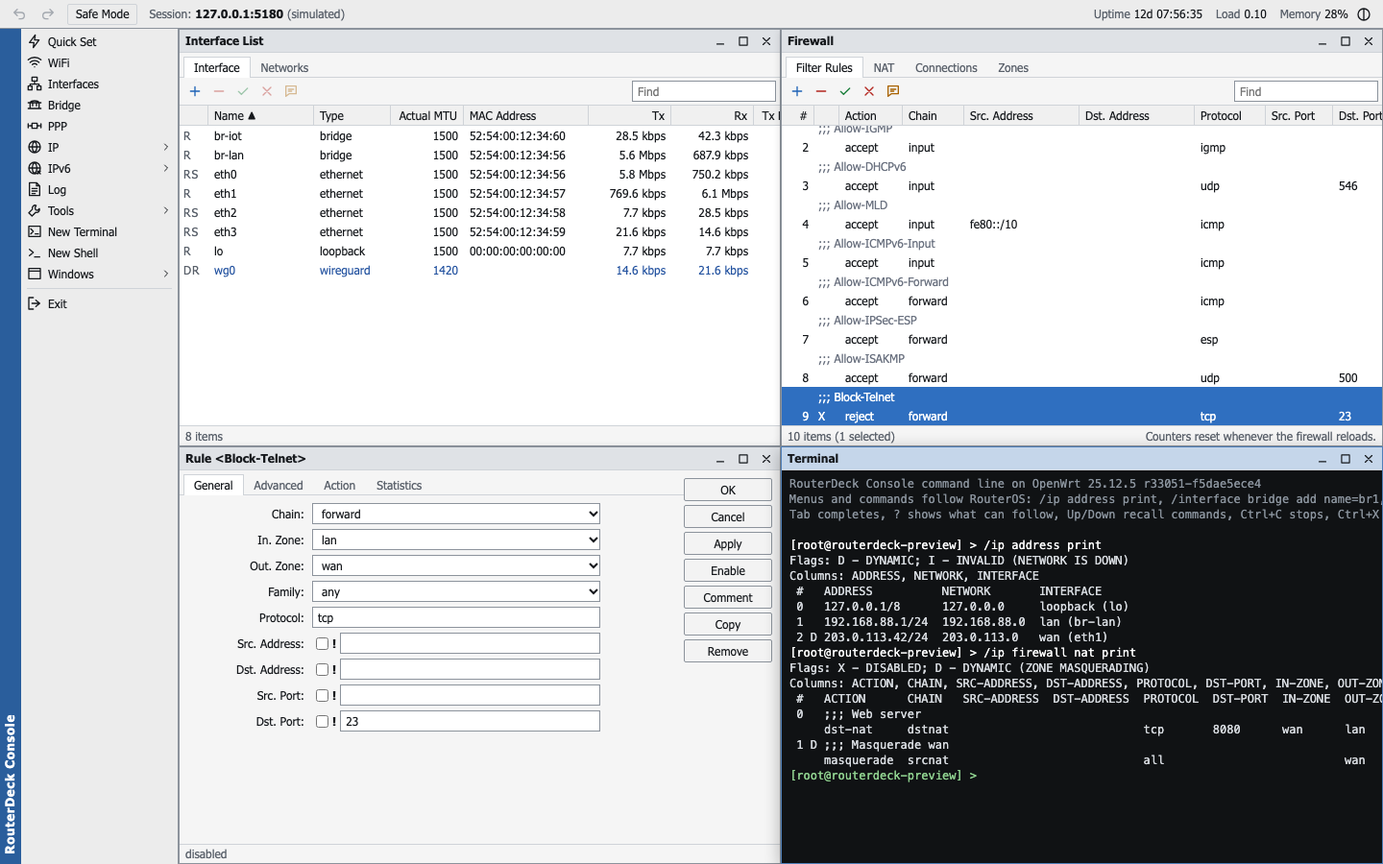
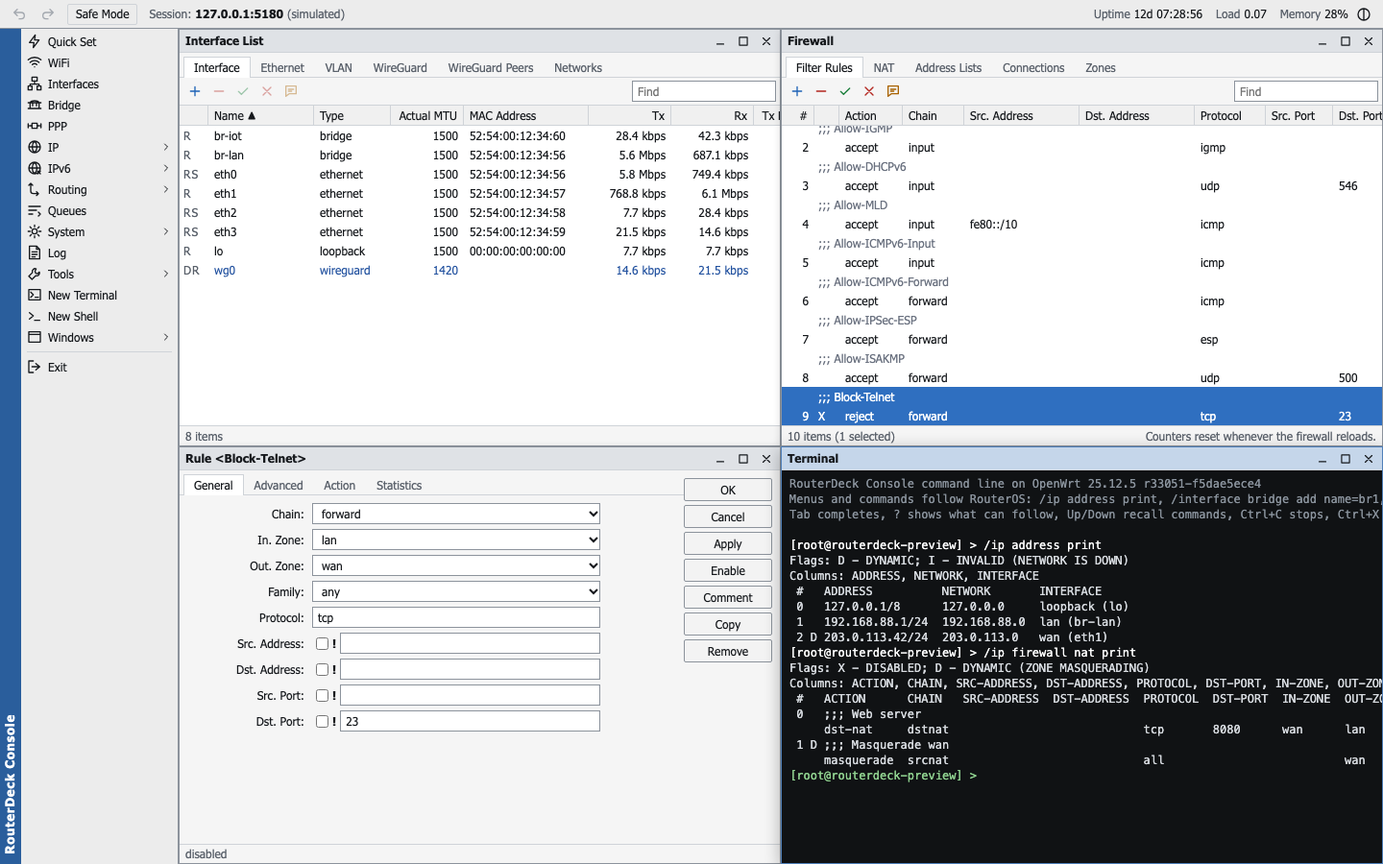
Validate the second round on OpenWrt 25.12 and 24.10 and document it
Fixes found by running the new windows against both releases:
- Services that procd has not registered ignore configuration changes:
  opkg enables a package's service without starting it, and ddns-scripts on
  24.10 is a plain init script. The plugin now restarts such a service after
  a change (plain scripts get reload and start, which also ends the updater
  of a removed DDNS section).
- The DHCP Networks tab and the DHCP pool read the LAN as /32 where 24.10
  keeps the legacy ipaddr + netmask form; both use the netmask now.
- The WireGuard tab says when netifd has not loaded WireGuard yet, as after
  installing wireguard-tools without restarting the network.
- VM tests tolerate a missing ttyd configuration, match the 24.10 ddns
  updater's arguments and skip WireGuard where netifd lacks it.

Docs: the console guide covers the System menu, the new tabs and lists,
UPnP, Dynamic DNS, Queues and the new tools with their CLI menus, the
Undo merge, set and WireGuard handling and the Netwatch service; READMEs,
architecture, changelog and the Russian plan are updated; screenshots
show the new menu.

Validated with SDK-built packages: package lifecycle on both releases;
console VM tests 48/48 on 25.12.5 and 44 passed, 3 skipped (no ttyd or
hwsim radios) on 24.10.8, where only the older LuCI theme window test fails
because 24.10 has no status/routesj page.

diff --git a/console/src/model/dhcp.js b/console/src/model/dhcp.js
@@ -2,7 +2,7 @@
 // IP > DHCP Server: per-network `dhcp` sections and leases. Static leases are
 // `host` sections; an active lease without one is dynamic and can be made
 // static. A lease shows an address was handed out, not that a client is online.
-import { sections, truthy, list, invalid, networkOptions, compact } from './common.js';
+import { sections, truthy, list, invalid, networkOptions, compact, firstCidr } from './common.js';
 import { parseCidr, isIPv4, isMac, addressKey, formatIPv4, parseIPv4, parseIPv6 } from '../lib/ip.js';
 import { uptime } from '../lib/format.js';
 
@@ -11,7 +11,7 @@ const HOSTNAME = /^[A-Za-z0-9]([A-Za-z0-9-]{0,62})$/;
 
 function pool(data, section) {
  const network = sections(data['uci:network'], 'interface').find(item => item['.name'] === section.interface);
- const cidr = parseCidr(list(network?.ipaddr)[0] ?? '');
+ const cidr = parseCidr(firstCidr(network));
  if (!cidr) return '';
  const base = parseIPv4(cidr.network), start = Number(section.start ?? 100), limit = Number(section.limit ?? 150);
  return `${formatIPv4(base + start)}-${formatIPv4(base + start + limit - 1)}`;
@@ -270,7 +270,7 @@ const odhcpdServes = data => truthy(sections(data['uci:dhcp'], 'odhcpd')[0]?.mai
 
 function routerAddress(data, section) {
  const network = sections(data['uci:network'], 'interface').find(item => item['.name'] === section.interface);
- return parseCidr(list(network?.ipaddr)[0] ?? '');
+ return parseCidr(firstCidr(network));
 }
 
 export const dhcpNetworks = {

diff --git a/console/src/model/ports.js b/console/src/model/ports.js
@@ -103,7 +103,7 @@ const wgInterfaces = data => sections(data['uci:network'], 'interface').filter(s
 export const wireguard = {
  id: 'wireguard',
  noun: 'WireGuard Interface',
- sources: ['uci:network', 'uci:firewall', 'ifaces', 'wireguard'],
+ sources: ['uci:network', 'uci:firewall', 'ifaces', 'wireguard', 'protos'],
  columns: [
   { id: 'flags', label: '', width: 30 },
   { id: 'name', label: 'Name', width: 100 },
@@ -115,7 +115,8 @@ export const wireguard = {
  ],
  flagLegend: { R: 'running', X: 'disabled' },
  defaultSort: 'name',
- status: data => data.wireguard?.available === false ? 'WireGuard needs the wireguard-tools and kmod-wireguard packages' : '',
+ status: data => data.wireguard?.available === false ? 'WireGuard needs the wireguard-tools and kmod-wireguard packages'
+  : data.protos && !Object.hasOwn(data.protos, 'wireguard') ? 'netifd has not loaded WireGuard yet: restart the network or the router after installing wireguard-tools' : '',
  rows(data) {
   return wgInterfaces(data).map(section => {
    const name = section['.name'], live = data.wireguard?.interfaces?.[name];

diff --git a/console/src/model/common.js b/console/src/model/common.js
@@ -83,3 +83,14 @@ export function reorderOps(config, values, orderedNames, types) {
 }
 
 export const quoted = value => value ? ` ${value}` : '';
+
+// The first IPv4 address of a network section as CIDR text, also for the
+// legacy ipaddr + netmask form OpenWrt 24.10 still writes.
+export function firstCidr(section) {
+ const first = list(section?.ipaddr)[0];
+ if (!first || first.includes('/')) return first ?? '';
+ const bits = String(section.netmask ?? '').split('.').map(Number);
+ if (bits.length !== 4 || bits.some(part => !(part >= 0 && part <= 255))) return first;
+ const prefix = bits.reduce((count, part) => count + part.toString(2).replace(/0/g, '').length, 0);
+ return `${first}/${prefix}`;
+}

diff --git a/docs/console.md b/docs/console.md
@@ -53,7 +53,15 @@ Dark theme: [screenshot](screenshots/console-dark.png). Both show the simulated 
   min/avg/max; *Traceroute* probes every hop once per round, like mtr, and keeps
   loss, last, average, best, worst and deviation per hop; *Torch* shows Tx/Rx
   rates per connection on a chosen device, filtered by protocol, addresses and
-  port and grouped by the fields you collect.
+  port and grouped by the fields you collect. *Bandwidth Test* runs iperf3
+  against another iperf3 or waits as a one-off server; *IP Scan* pings a
+  network and lists who answers with MAC and host name; *Netwatch* pings hosts
+  from the router itself and runs commands when they go up or down; *Wake on
+  LAN* sends a magic packet; *Graphs* and the *Traffic* tab of an interface
+  draw live Tx/Rx.
+- **System.** Identity, Clock (time zone, set from this computer), NTP,
+  Logging, Password, Packages, Scheduler (cron), Startup (procd services),
+  Resources, Backup download and Reboot.
 - **Terminal.** *New Terminal* (Alt+T) is a command line in the RouterOS style
   (see [Command line](#command-line)). *New Shell* embeds the router's shell
   through [ttyd](https://github.com/tsl0922/ttyd), which asks for its own login.
@@ -85,6 +93,21 @@ Dark theme: [screenshot](screenshots/console-dark.png). Both show the simulated 
 | WiFi ▸ Registration | iwinfo association lists | — | Connected clients with signal, rates, uptime and DHCP host names |
 | PPP | `interface` sections with a PPP protocol | R connected, X disabled | PPPoE and other PPP clients: user, password, service, AC, peer DNS, default route, keepalive, MTU, zone |
 | Quick Set | `wan` and `lan` networks, their DHCP server and zone, LAN access points, `system` | — | One change for everything edited; see above |
+| Interfaces ▸ Ethernet | Ethernet devices, link state, `device` sections | R link up, S bridge port | Speed, duplex and autonegotiation in the port's `device` section, where the driver allows them |
+| Interfaces ▸ VLAN | `device` sections of type 8021q | R, I | The VLAN form of the device list |
+| Interfaces ▸ WireGuard, WireGuard Peers | `interface` sections with proto wireguard, `wireguard_<interface>` peers, `wg show` | R running, X disabled; C handshake within 3 min | A new interface gets a private key made on the router; peers changes restart the interface |
+| IP ▸ ARP, IPv6 ▸ Neighbors | the kernel's neighbour table (`ip neigh`) | D, C complete, I failed, S static lease, R router | *Make Static* reserves a DHCP lease |
+| IP ▸ Firewall ▸ Address Lists | fw4 `ipset` sections and their entries | X list disabled, E empty | Rules use a list on their Advanced tab; removed entries leave nftables at once |
+| IP ▸ DHCP Server ▸ Networks, Options | `dhcp_option` of each DHCP server | X, F forced | dnsmasq options: gateway (3), DNS (6), domain (15), NTP (42) and any other code |
+| IP ▸ Services | uhttpd, dropbear and ttyd | X disabled | Ports and where SSH and ttyd listen; a new web port moves this console |
+| IP ▸ UPnP | `upnpd` (miniupnpd) and its lease file | — | Settings, live mappings, ordered permission rules |
+| IP ▸ Dynamic DNS | `ddns` service sections (ddns-scripts) and its run directory | X, R updater running, 6 IPv6 | Provider list from ddns-scripts or a custom update URL |
+| Routing ▸ Rules | `rule` and `rule6` sections, `ip rule` | X, I invert, D kernel rule, A active | Policy routing to other tables |
+| Queues ▸ SQM | `queue` sections (sqm-scripts), `tc` | X, R shaping | cake or fq_codel per device with link-layer settings |
+| System ▸ … | `/etc/config/system`, `/etc/crontabs/root`, `rc list`, apk/opkg databases | — | Scheduler jobs: "# name" lines name them, commented-out jobs are disabled |
+| Tools ▸ Bandwidth Test, IP Scan | `bandwidth` and `scan` jobs of the same runner | — | Need iperf3 for the bandwidth test |
+| Tools ▸ Netwatch | `netwatch` sections in `/etc/config/routerdeck`, `routerdeck-netwatch` service | U up, D down, X disabled | Commands run on changes, not on the first check |
+| Tools ▸ Wake on LAN | etherwake | — | Shown when etherwake is installed |
 | Tools ▸ Ping, Traceroute | `ping` and `traceroute` jobs run by `/usr/libexec/routerdeck/diag` | — | Run outside rpcd; end when stopped, finished, unread for 15 seconds, or after an hour |
 | Tools ▸ Torch | `/proc/net/nf_conntrack` every second | — | Rates from byte counters of tracked connections, oriented to the chosen device by the routing table |
 | Log | logd (`log read`), `logread` fallback | — | Last 1000 lines, follows new entries |
@@ -126,12 +149,17 @@ names come from the form labels (*Src. Address* is `src-address`).
 [root@OpenWrt] > /export
 ```
 
-- Menus: `/interface` (`bridge`, `bridge port`, `bridge vlan`, `network`,
-  `pppoe-client`, `wifi`, `wifi radio`, `wifi registration-table`), `/ip`
-  (`address`, `route`, `firewall filter|nat|connection|zone`, `dhcp-server`,
-  `dhcp-server lease`, `dns`, `dns static`), `/ipv6` (`address`, `route`,
-  `dhcp-server binding`), `/log`, `/system` (`identity`, `resource`,
-  `history`) and `/tool` (`traceroute`, `torch`). `/ip address` and
+- Menus: `/interface` (`bridge`, `bridge port`, `bridge vlan`, `ethernet`,
+  `vlan`, `wireguard`, `wireguard peers`, `network`, `pppoe-client`, `wifi`,
+  `wifi radio`, `wifi registration-table`), `/ip` (`address`, `arp`, `route`,
+  `firewall filter|nat|address-list|connection|zone`, `dhcp-server`,
+  `dhcp-server network|lease|option`, `dns`, `dns static`, `ddns`, `service`,
+  `upnp`, `upnp mapping|rule`), `/ipv6` (`address`, `neighbor`, `route`,
+  `dhcp-server binding`), `/routing rule`, `/queue sqm`, `/log`, `/system`
+  (`identity`, `clock`, `ntp client`, `logging`, `package`, `scheduler`,
+  `startup`, `resource`, `history`, and `reboot`, which asks first) and `/tool`
+  (`traceroute`, `torch`, `bandwidth-test`, `ip-scan`, `netwatch`, `wol`).
+  `/ip address` and
   `/ip/address` are the same; `..` goes up, `/` to the top; any unique
   abbreviation works (`/ip fi f pr`).
 - Commands: `print` (`detail`, `count-only`, `where name=value`, `!=`, `~regex`,
@@ -165,16 +193,21 @@ default). The package depends on rpcd, its ucode, luci-rpc and iwinfo modules,
 the ucode fs/ubus/uci modules, uhttpd with `/ubus`, and firewall4; standard
 OpenWrt images with LuCI already have all of them. For *New Shell*, install
 ttyd (`apk add ttyd` or `opkg install ttyd`); PPPoE needs `ppp-mod-pppoe`.
+UPnP, Dynamic DNS, Queues, Bandwidth Test and Wake on LAN appear once
+`miniupnpd-nftables`, `ddns-scripts`, `sqm-scripts`, `iperf3` and `etherwake`
+are installed; WireGuard needs `wireguard-tools` and `kmod-wireguard`.
 
 Removing the package (`apk del routerdeck-console` / `opkg remove
-routerdeck-console`) stops the Safe Mode watchdog, deletes the runtime state
-in `/var/run/routerdeck` and leaves `/etc/config` as it is.
+routerdeck-console`) stops the Safe Mode watchdog and Netwatch, ends running
+diagnostics, deletes the runtime state in `/var/run/routerdeck` and leaves
+`/etc/config` as it is.
 
 ## How changes are made
 
 Every action is one call to the `routerdeck` rpcd object (`apply`, `undo`,
 `redo`, `safemode`). The plugin changes only `network`, `firewall`, `dhcp`,
-`wireless` and `system`, and:
+`wireless`, `system`, `dropbear`, `uhttpd`, `ttyd`, `upnpd`, `ddns`, `sqm`,
+`routerdeck` and `/etc/crontabs/root`, and:
 
 1. refuses to run while LuCI is waiting to confirm an *apply with rollback*,
    so the two rollbacks cannot overwrite each other;
@@ -184,9 +217,17 @@ Every action is one call to the `routerdeck` rpcd object (`apply`, `undo`,
    makes fw4 skip a section as invalid (fw4 itself would only warn);
 4. announces `config.change` so procd reloads the affected services;
 5. keeps the previous and new file contents for Undo and Redo in
-   `/var/run/routerdeck` (cleared at reboot).
+   `/var/run/routerdeck` (cleared at reboot). When another program changed
+   other options of the file meanwhile (miniupnpd writes its UUID, for
+   example), Undo and Redo carry the change over onto the file as it is;
+   when sections were added, removed or moved, or the same options changed,
+   they refuse;
+6. after firewall changes, flushes the nftables sets of address lists that lost
+   entries and deletes removed ones, because `fw4 reload` only adds to sets;
+   after changes to WireGuard peers, restarts that interface, because netifd
+   reads peers only when it brings the interface up.
 
-Safe Mode stores a snapshot of those five configurations. A procd service
+Safe Mode stores a snapshot of those configurations. A procd service
 (`routerdeck-safemode`), separate from rpcd, watches the console's heartbeats
 and restores the snapshot, reloads services and writes a syslog line when they
 stop. Changes made from LuCI or the shell while Safe Mode is active are undone
@@ -197,13 +238,20 @@ Ping and Traceroute run as jobs: rpcd handles one call at a time, so a probe
 waiting for its timeout inside the plugin would stall every window. The
 plugin's `diag` method starts `/usr/libexec/routerdeck/diag` in the
 background, reads its results and stops it; at most eight jobs run at once.
+Bandwidth tests (iperf3) and IP scans use the same runner. Netwatch is a procd
+service, `routerdeck-netwatch`, so it keeps watching while no console is open.
+
+Actions that are not configuration changes — starting a service, setting the
+clock, changing the password, Wake on LAN, downloading a backup — go straight
+to rpcd and are not in the Undo history.
 
 ## Access and security
 
 `/usr/share/rpcd/acl.d/routerdeck-console.json` grants the
 `routerdeck-console` group read access to the status objects and UCI configs the
 windows show (including iwinfo and the diagnostics jobs), and write access to
-the plugin's `apply`, `undo`, `redo` and `safemode`. The plugin runs as root
+the plugin's `apply`, `undo`, `redo`, `safemode` and `wol`, `rc init`,
+`system reboot` and LuCI's `setLocaltime` and `setPassword`. The plugin runs as root
 inside rpcd; diagnostics accept only plain host names and addresses. Users with `read '*'` / `write '*'` in
 `/etc/config/rpcd` (root by default) receive the group automatically. Serve
 the router over HTTPS where untrusted users share the network; ttyd then also
@@ -212,6 +260,12 @@ needs SSL, or the browser blocks the embedded terminal.
 ## Known limitations
 
 - Desktop browsers only; on narrow screens every window fills the work area.
+- Traffic graphs are drawn from rates this console samples while a window
+  needs them; the last five minutes live in the browser, not on the router.
+- DHCP Networks and Options are dnsmasq options; where odhcpd is the main
+  DHCPv4 server (`maindhcp`), the windows say so, because it ignores them.
+- Packages lists what is installed; installing and removing stay in LuCI or a
+  shell. The password change cannot be undone.
 - Torch measures connections tracked by the firewall, not packets on the wire:
   bridged traffic and anything without connection tracking is not shown, and
   the device a connection belongs to comes from the routing table.

diff --git a/docs/console-plan.ru.md b/docs/console-plan.ru.md
@@ -1,7 +1,8 @@
 # RouterDeck Console: план WinBox-подобного интерфейса для OpenWrt
 
-Статус на 2026-10-18: **план выполнен** (этапы 0–4 и все окна из списка
-«дальше»), кроме проверки на настоящем NanoPi — у меня нет доступа к железу.
+Статус на 2026-10-18: **план выполнен** (этапы 0–4, все окна из списка
+«дальше» и второй круг: меню System, дополнительные вкладки, UPnP, DDNS, SQM и
+инструменты), кроме проверки на настоящем NanoPi — у меня нет доступа к железу.
 Описание для пользователей — в [console.md](console.md).
 
 - **Готово:** Quick Set; WiFi (интерфейсы, радио, регистрация); Interfaces
@@ -10,7 +11,13 @@
   DHCPv6 Bindings), DNS (Settings, Static); IPv6 → Addresses, Routes; Log;
   Tools → Ping, Traceroute, Torch; New Terminal — командная строка в стиле
   RouterOS (меню, print/add/set/remove/enable/disable/comment, find, export,
-  Tab, `?`, история); New Shell — ash через ttyd. Мгновенное применение,
+  Tab, `?`, история); New Shell — ash через ttyd.
+- **Второй круг:** System (Identity, Clock, NTP, Logging, Password, Packages,
+  Scheduler, Startup, Resources, Backup, Reboot); Interfaces → Ethernet, VLAN,
+  WireGuard и пиры; IP → ARP, Services, Address Lists, DHCP Networks и Options,
+  UPnP, Dynamic DNS; IPv6 → Neighbors; Routing → Rules; Queues → SQM; Tools →
+  Bandwidth Test, IP Scan, Netwatch (служба на роутере), Wake on LAN, Graphs и
+  вкладка Traffic. Мгновенное применение,
   Undo/Redo, Safe Mode со сторожем и перехватом другой сессией, горячие
   клавиши, контекстные меню, выбор колонок, меню Windows, светлая и тёмная тема.
 - **Проверено:**
@@ -49,6 +56,14 @@
     поэтому состояние WiFi читается через `luci-rpc getWirelessDevices`;
   - окно, открываясь, через два кадра забирало фокус у поля, в которое уже
     начали вводить, — ввод терялся; нашлось на WebKit в e2e.
+  - в 25.12 при наличии другого DHCP-сервера в сегменте (в QEMU — сам QEMU)
+    dnsmasq не раздаёт DHCP; опции DHCP в тестах проверяются с `force`;
+  - `fw4 reload` только добавляет элементы в наборы nftables: удалённый из
+    списка адрес оставался заблокированным — плагин очищает такие наборы;
+  - netifd читает пиров WireGuard только при подъёме интерфейса — плагин
+    перезапускает интерфейс, если пиры изменились;
+  - miniupnpd при старте дописывает в конфиг свой UUID, и Undo «включения UPnP»
+    отказывался — теперь Undo/Redo сливают изменения на уровне опций.
 - **Не сделано:** проверка на реальном NanoPi (нужны настоящий роутер и
   доступ к нему). Что проверить там — в конце раздела «Проверка».
 

diff --git a/README.ru.md b/README.ru.md
@@ -30,9 +30,12 @@
   закладками. Отдельного пункта Workspace больше нет, окна входят в тему.
 - Экспериментальный **`routerdeck-console`**, отдельный от LuCI: оконная
   консоль по адресу `/routerdeck/` по образцу настольных утилит для роутеров,
-  которая работает с rpcd напрямую через `/ubus`. Quick Set, WiFi, интерфейсы,
-  мосты и VLAN, PPP, адреса и маршруты IPv4 и IPv6, firewall, DHCP и DHCPv6, DNS
-  и журнал — живые списки объектов; Ping, Traceroute и Torch — инструменты.
+  которая работает с rpcd напрямую через `/ubus`. Quick Set, WiFi, интерфейсы
+  (Ethernet, VLAN, WireGuard), мосты, PPP, адреса, маршруты и правила
+  маршрутизации IPv4 и IPv6, firewall со списками адресов, DHCP и DHCPv6, DNS,
+  UPnP, динамический DNS, очереди SQM, службы, меню System и журнал — живые
+  списки объектов; Ping, Traceroute, Torch, Bandwidth Test, IP Scan, Netwatch,
+  Wake on LAN и графики трафика — инструменты.
   Изменения применяются сразу, есть Undo/Redo и Safe Mode с автоматическим
   откатом. New Terminal — командная строка в стиле RouterOS над теми же
   объектами, New Shell — оболочка через ttyd.

diff --git a/README.md b/README.md
@@ -27,10 +27,12 @@ downloadable packages. Build current source to try them; see the
   bookmarks. Windows are now built into the theme, without a separate menu page.
 - **`routerdeck-console`**, experimental and separate from LuCI: a windowed
   console at `/routerdeck/`, modelled on desktop router tools, that talks to rpcd
-  over `/ubus`. Quick Set, WiFi, interfaces, bridges and VLANs, PPP, IPv4 and IPv6
-  addresses and routes, firewall, DHCP and DHCPv6, DNS and the log are live object
-  lists; Ping, Traceroute and Torch are tools; changes apply at once with Undo/Redo
-  and Safe Mode rollback. New Terminal is a RouterOS-style command line over the
+  over `/ubus`. Quick Set, WiFi, interfaces (Ethernet, VLAN, WireGuard), bridges,
+  PPP, IPv4 and IPv6 addresses, routes and policy rules, firewall with address
+  lists, DHCP and DHCPv6, DNS, UPnP, dynamic DNS, SQM queues, services, the System
+  menu and the log are live object lists; Ping, Traceroute, Torch, Bandwidth Test,
+  IP Scan, Netwatch, Wake on LAN and traffic graphs are tools; changes apply at
+  once with Undo/Redo and Safe Mode rollback. New Terminal is a RouterOS-style command line over the
   same objects; New Shell uses ttyd. See [RouterDeck Console](docs/console.md). Its bundle
   includes Preact (MIT).
 - Bootstrap remains installed. Installing RouterDeck registers it without

diff --git a/CHANGELOG.md b/CHANGELOG.md
@@ -39,6 +39,19 @@
   moved to New Shell.
 - Fix focus being taken from a field the user already typed in when a window
   opens, and quick successive form edits overwriting each other.
+- Add the System menu: Identity, Clock, NTP, Logging, Password, Packages,
+  Scheduler (crontab, with Undo and Safe Mode), Startup (procd services),
+  Resources, Backup download and Reboot.
+- Add tabs and lists: Interfaces ▸ Ethernet, VLAN, WireGuard and peers; IP ▸
+  ARP, Services, Firewall ▸ Address Lists, DHCP Networks and Options; IPv6 ▸
+  Neighbors; Routing ▸ Rules.
+- Add IP ▸ UPnP, IP ▸ Dynamic DNS and Queues ▸ SQM for routers with those
+  packages.
+- Add Tools ▸ Bandwidth Test (iperf3), IP Scan, Netwatch (a service on the
+  router), Wake on LAN and Graphs, and a Traffic tab for interfaces.
+- Undo/Redo carry a change over onto a file another program changed in other
+  options; removed address-list entries leave nftables at once; changed
+  WireGuard peers restart their interface.
 
 ### Navigation and windows
 

diff --git a/docs/architecture.md b/docs/architecture.md
@@ -175,6 +175,13 @@ two connection-tracking samples. The command line (`console/src/cli`) parses
 RouterOS-style commands and runs them through the same window models, so a
 command and the matching window produce identical operations.
 
+Actions that are not configuration changes (rpcd calls such as `rc init`,
+a password change, a backup download) are described by models as data and
+run by `perform()`, so models stay testable without a router. Netwatch is a
+procd service (`routerdeck-netwatch`) reading `/etc/config/routerdeck`.
+Undo and Redo merge at the level of UCI options when another program changed
+other options of a file since.
+
 See [RouterDeck Console](console.md) for behaviour, the object mapping and limits.
 
 ## Packaging and licensing
